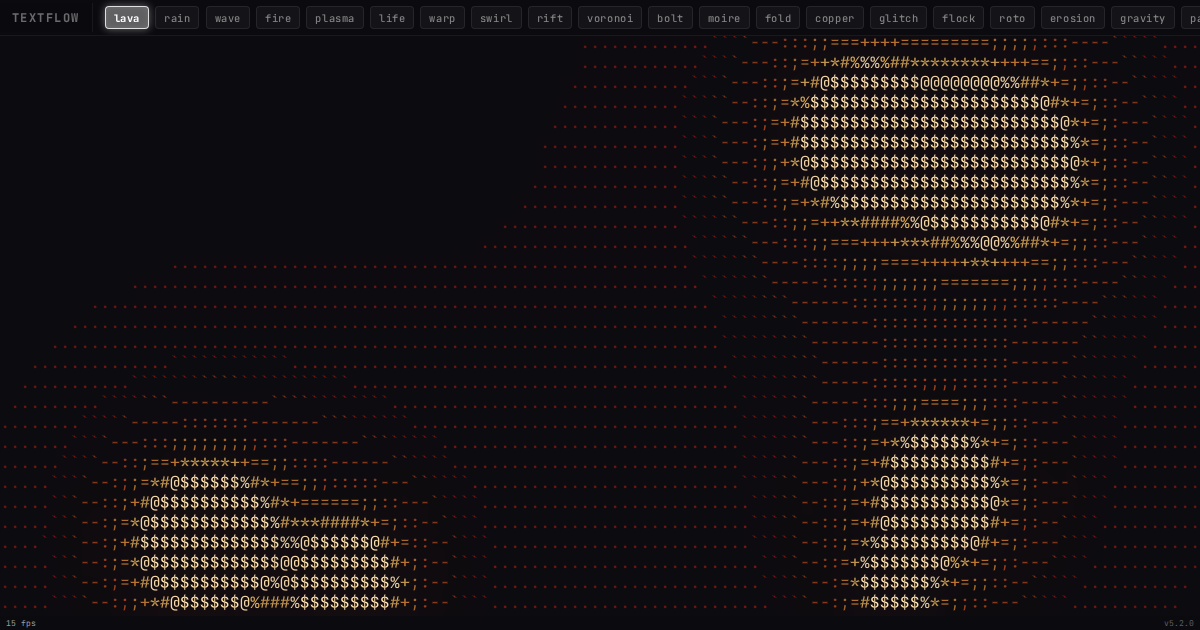
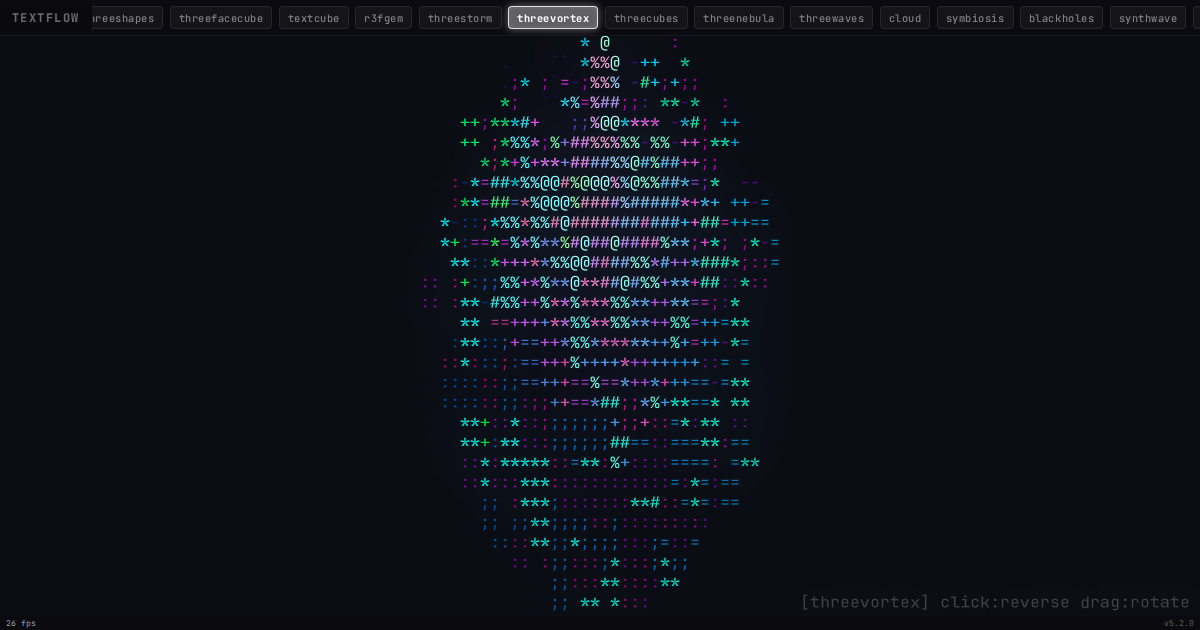
Fix threewaves brightness and regenerate thumbnails
- Doubled ambient and directional light intensities
- Added second directional light from below
- Tripled point light intensity and range
- Increased shininess for specular highlights
- Boosted ASCII color multiplier to 1.8x and alpha to 2.5x
- Regenerated threewaves and threevortex OG thumbnails

diff --git a/src/modes/threewaves.js b/src/modes/threewaves.js
@@ -59,18 +59,21 @@ function setupScene() {
 
   camera = new THREE.PerspectiveCamera(60, rW / rH, 0.1, 200);
 
-  var ambient = new THREE.AmbientLight(0x556688, 0.8);
+  var ambient = new THREE.AmbientLight(0x8899bb, 1.5);
   scene.add(ambient);
-  var dirLight = new THREE.DirectionalLight(0xaaccff, 1.2);
+  var dirLight = new THREE.DirectionalLight(0xffffff, 2.0);
   dirLight.position.set(0, 20, 10);
   scene.add(dirLight);
+  var dirLight2 = new THREE.DirectionalLight(0x4488ff, 1.0);
+  dirLight2.position.set(0, -10, -5);
+  scene.add(dirLight2);
 
   // Dynamic point lights
   wavePointLights = [];
   for (var l = 0; l < 3; l++) {
     var hue = l / 3;
     var col = new THREE.Color().setHSL(hue * 0.6 + 0.4, 0.9, 0.7);
-    var pl = new THREE.PointLight(col, 1.5, 40);
+    var pl = new THREE.PointLight(col, 3.0, 60);
     pl.position.set(0, 3, 0);
     scene.add(pl);
     wavePointLights.push(pl);
@@ -81,8 +84,8 @@ function setupScene() {
   planeGeo.rotateX(-Math.PI / 2);
 
   var planeMat = new THREE.MeshPhongMaterial({
-    color: 0x66aaee,
-    shininess: 60,
+    color: 0x88ccff,
+    shininess: 120,
     side: THREE.DoubleSide,
     flatShading: false,
     vertexColors: true
@@ -179,7 +182,7 @@ function renderThreewaves() {
     var normalizedH = (height + 4) / 8;
     normalizedH = Math.max(0, Math.min(1, normalizedH));
     var hue = 0.45 + (1 - normalizedH) * 0.35;
-    var lightness = 0.4 + normalizedH * 0.5;
+    var lightness = 0.55 + normalizedH * 0.4;
     var saturation = 0.8 + normalizedH * 0.2;
     var col = new THREE.Color().setHSL(hue, saturation, lightness);
     colors[i3] = col.r; colors[i3 + 1] = col.g; colors[i3 + 2] = col.b;
@@ -216,9 +219,9 @@ function renderThreewaves() {
       var pi = (sy * rW + sx) * 4;
       var r = imgData[pi], g = imgData[pi + 1], b = imgData[pi + 2];
       var lum = (0.299 * r + 0.587 * g + 0.114 * b) / 255;
-      if (lum < 0.02) continue;
+      if (lum < 0.01) continue;
       var ci = Math.min(RAMP_DENSE.length - 1, (lum * RAMP_DENSE.length) | 0);
-      drawChar(RAMP_DENSE[ci], x, y, Math.min(255, r * 1.4) | 0, Math.min(255, g * 1.4) | 0, Math.min(255, b * 1.4) | 0, Math.max(0.3, Math.min(1, lum * 2.0)));
+      drawChar(RAMP_DENSE[ci], x, y, Math.min(255, r * 1.8) | 0, Math.min(255, g * 1.8) | 0, Math.min(255, b * 1.8) | 0, Math.max(0.4, Math.min(1, lum * 2.5)));
     }
   }
 
